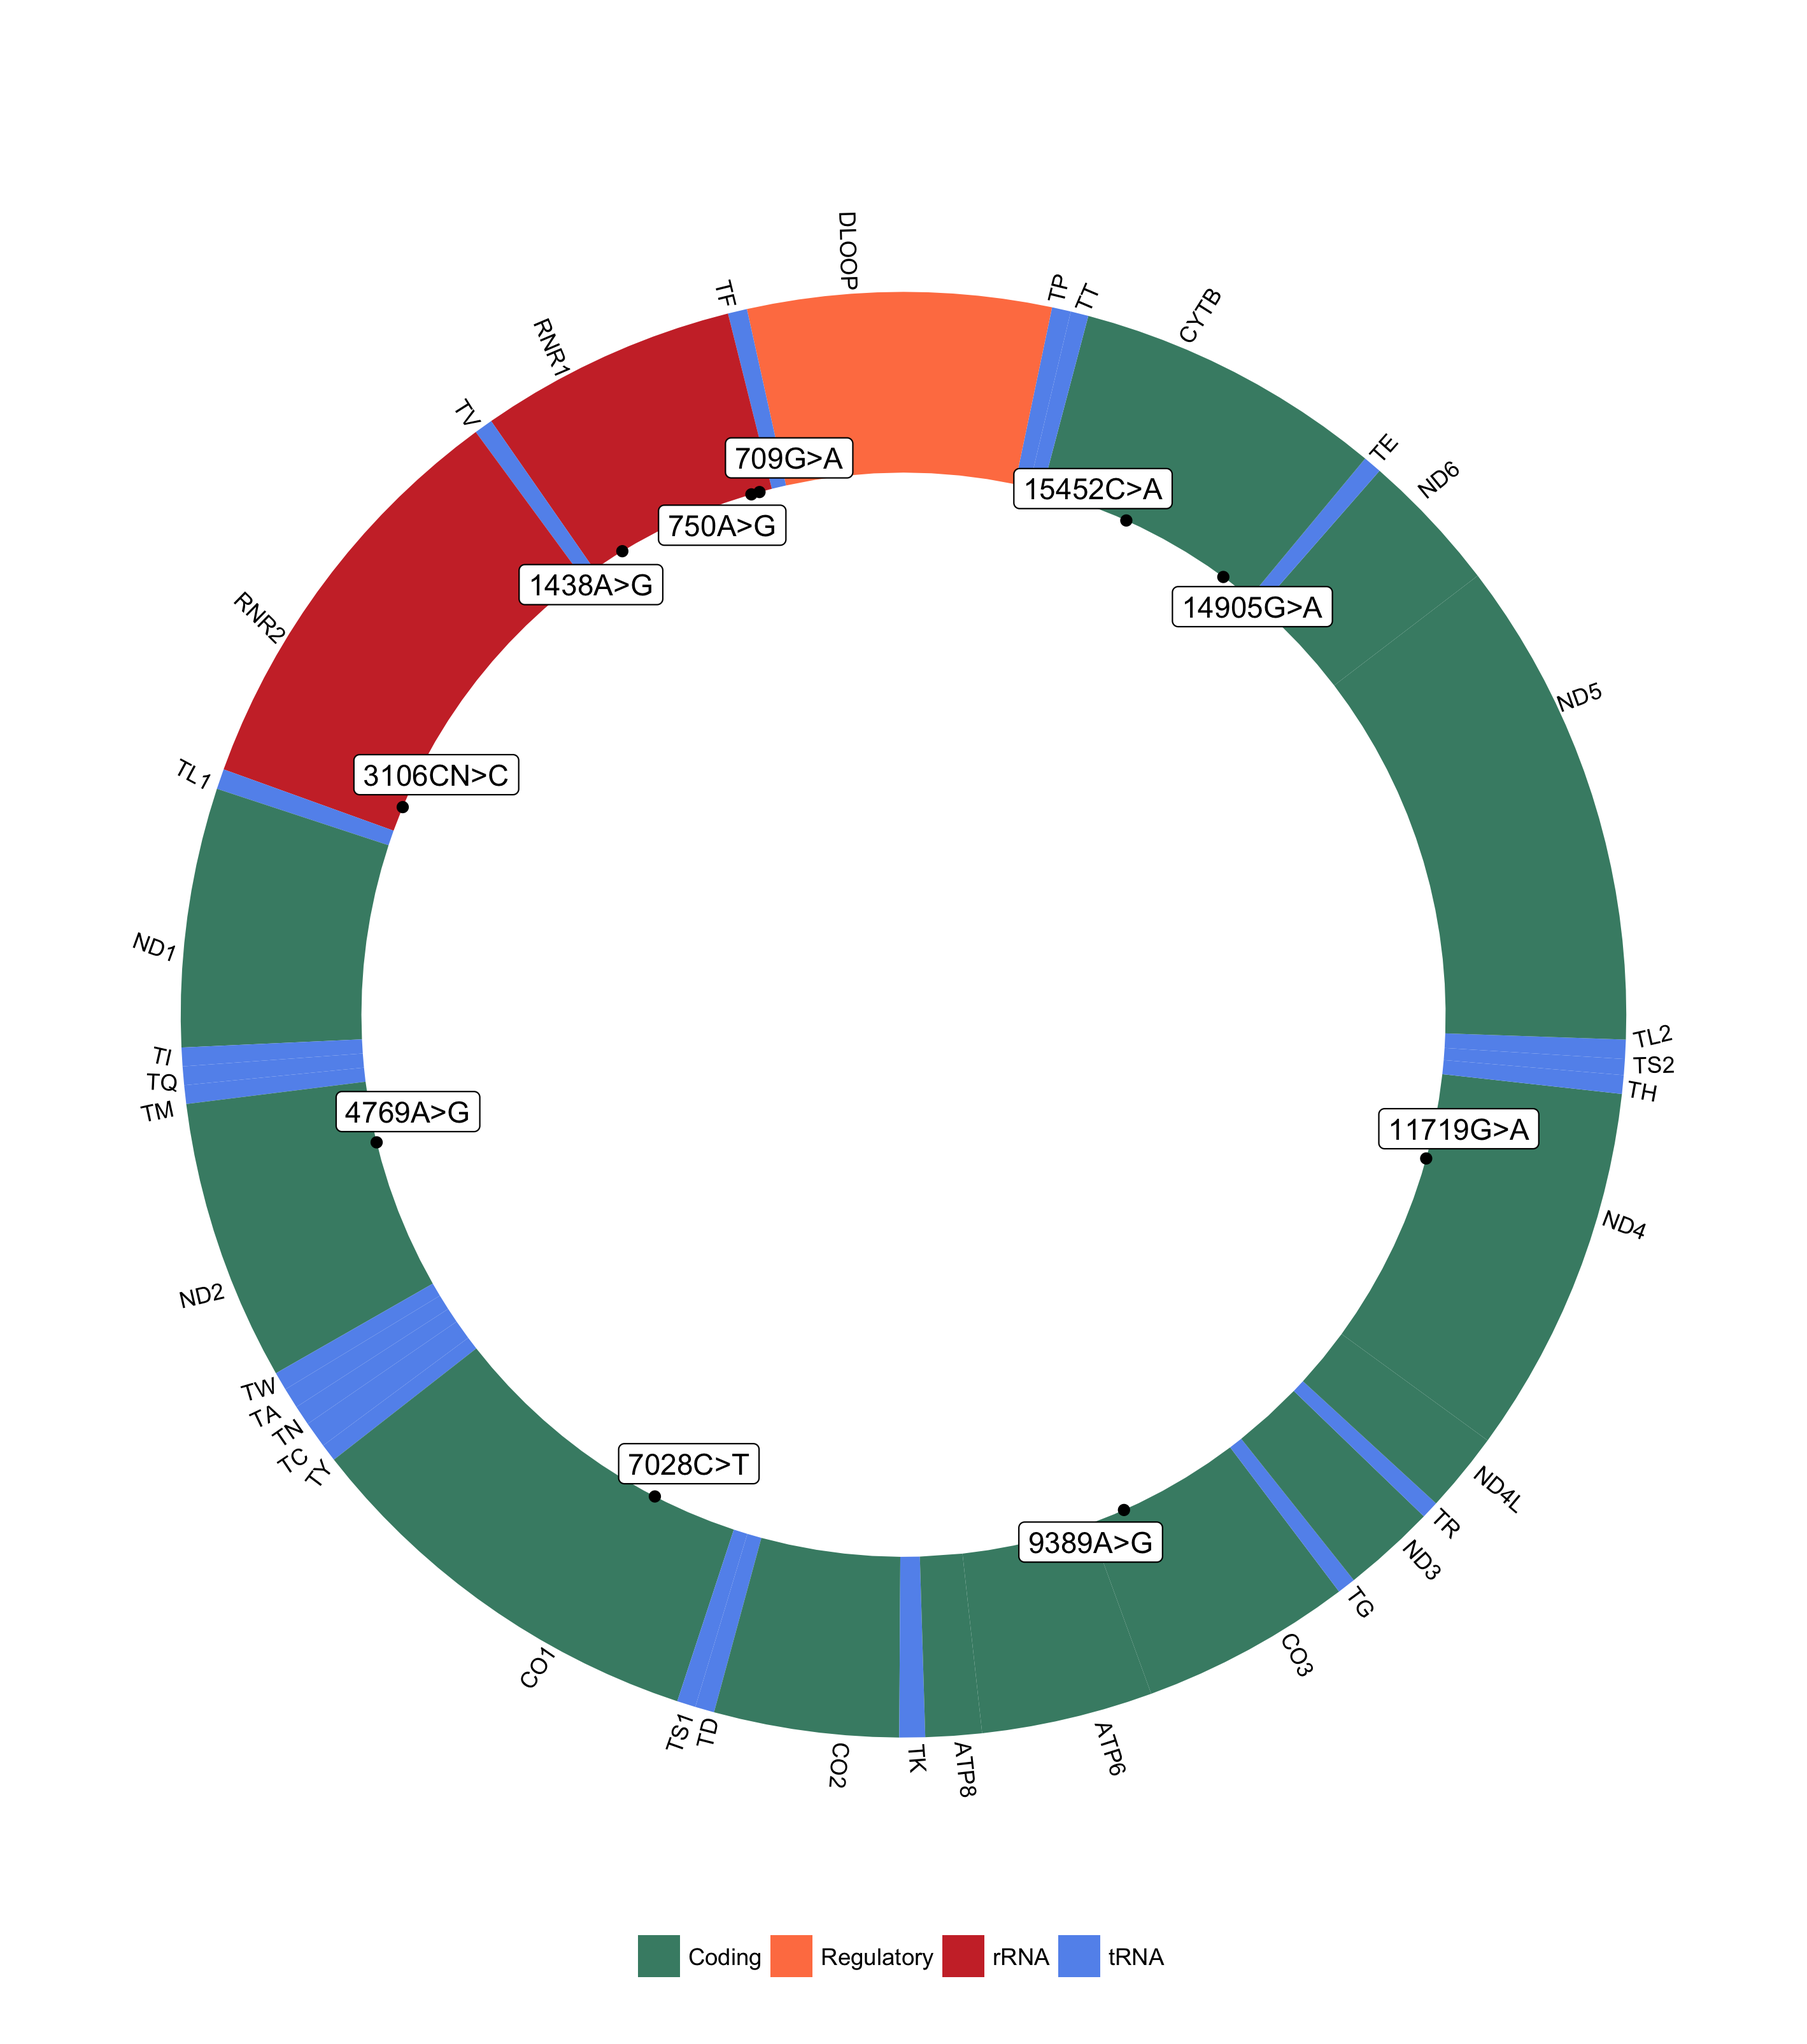
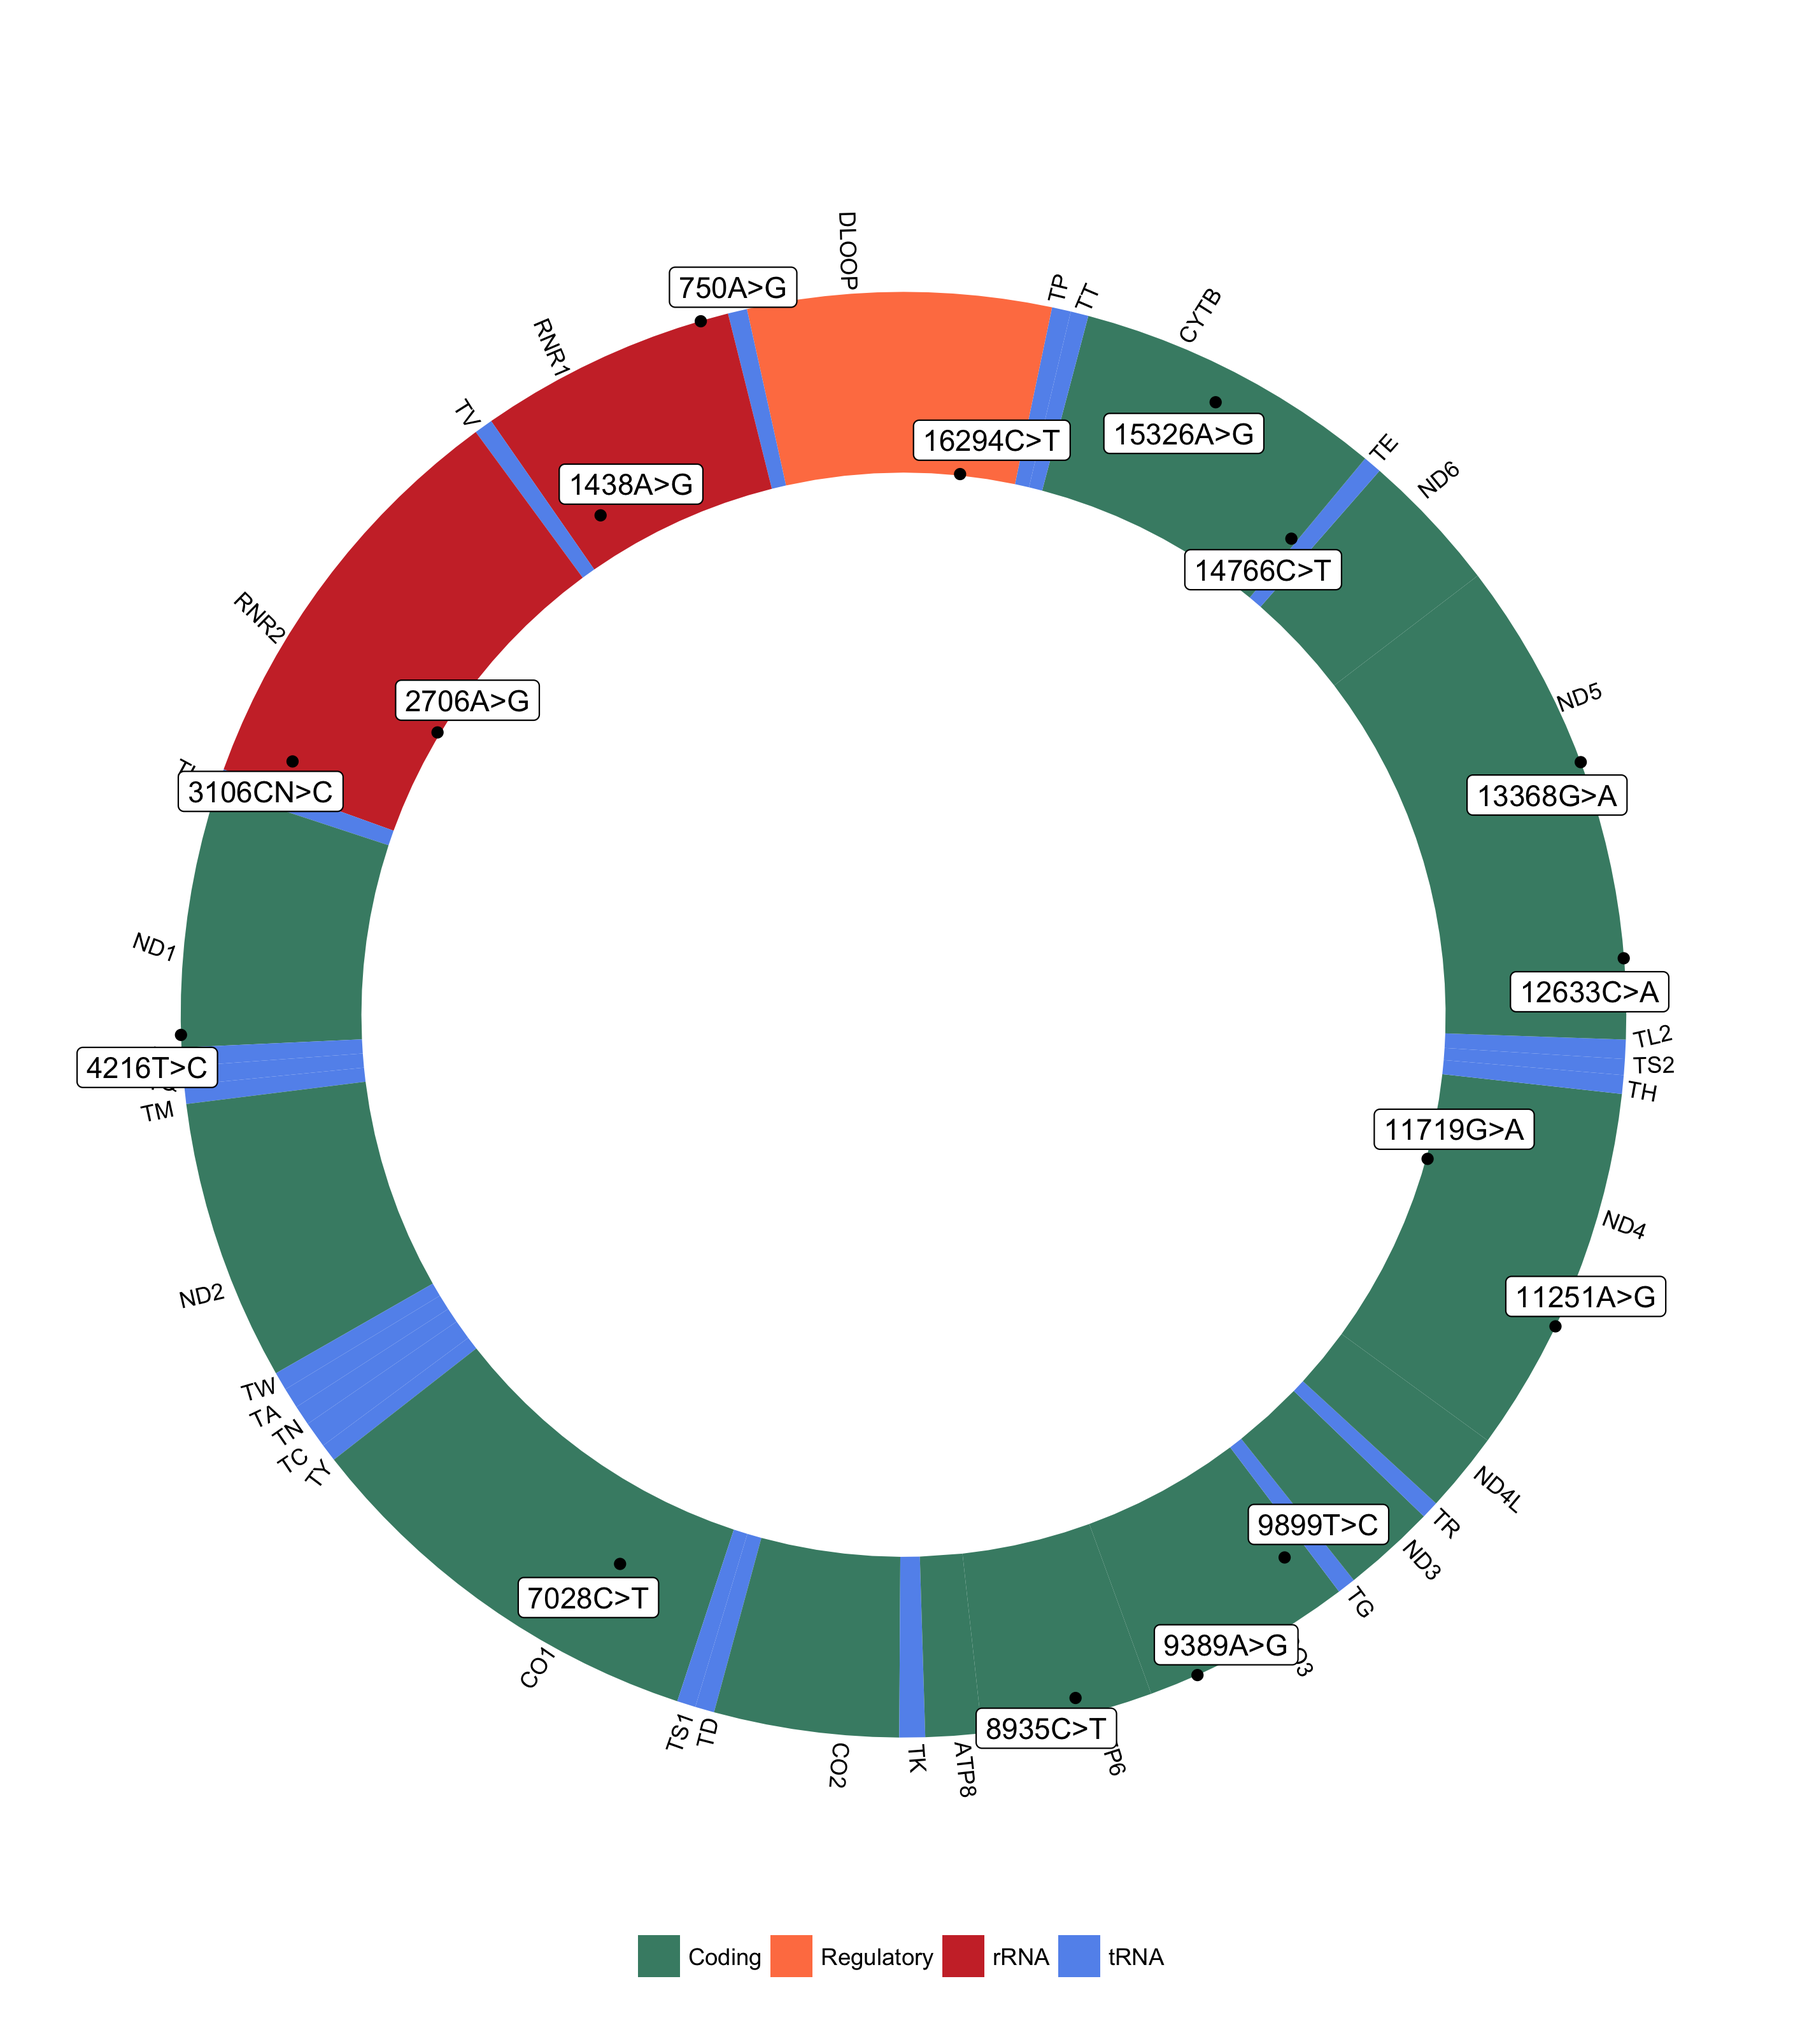
Update documentation

diff --git a/README.md b/README.md
@@ -35,6 +35,12 @@ mitovizR can be installed in R from GitHub using `devtools`:
 devtools::install_github("robertopreste/mitovizR")
 ```
 
+It is suggested to also build the package vignette when installing `mitovizR`, where all the functionalities are better explained:
+
+``` r
+devtools::install_github("robertopreste/mitovizR", build_vignettes = TRUE)
+```
+
 Official installation from CRAN/Bioconductor coming soon!
 
 Usage
@@ -54,7 +60,7 @@ plot_vcf()   # to plot variants from a VCF file
 plot_json()  # to plot variants from a JSON file 
 ```
 
-Further details about their usage and options may be found below.
+Further details about their usage and options may be found in the package vignette, which can be built using `devtools::install_github("robertopreste/mitovizR", build_vignettes = TRUE)`.
 
 **Under construction!**
 
@@ -62,29 +68,29 @@ Further details about their usage and options may be found below.
 
 The simplest example is when you already have a dataframe with a set of mitochondrial variants.
 
+|    POS| REF | ALT | SAMPLE  | GT  | HF    |
+|------:|:----|:----|:--------|:----|:------|
+|    750| A   | G   | HG00420 | 0/1 | 0.998 |
+|   1438| A   | G   | HG00420 | 0/1 | 0.232 |
+|   2706| A   | G   | HG00420 | 0/1 | 0.015 |
+|   3106| CN  | C   | HG00420 | 0/1 | 0.66  |
+|   4216| T   | C   | HG00420 | 1   | 1.0   |
+|   7028| C   | T   | HG00420 | 0/1 | 0.420 |
+|   8935| C   | T   | HG00420 | 0/1 | 0.899 |
+|   9389| A   | G   | HG00420 | 1   | 1.0   |
+|   9899| T   | C   | HG00420 | 0/1 | 0.670 |
+|  11251| A   | G   | HG00420 | 0/1 | 0.999 |
+|  11719| G   | A   | HG00420 | 0/1 | 0.008 |
+|  12633| C   | A   | HG00420 | 0/1 | 0.998 |
+|  13368| G   | A   | HG00420 | 1   | 1.0   |
+|  14766| C   | T   | HG00420 | 0/1 | 0.398 |
+|  15326| A   | G   | HG00420 | 0/1 | 0.804 |
+|  16294| C   | T   | HG00420 | 0/1 | 0.008 |
+
+In this case, a call to `plot_df()` will plot all mitochondrial variants.
+
 ``` r
-minidf 
-```
-
-| CHROM |    POS| ID  | REF | ALT | QUAL | FILTER |
-|:------|------:|:----|:----|:----|:-----|:-------|
-| chrMT |    709| NA  | G   | A   | NA   | PASS   |
-| chrMT |    750| NA  | A   | G   | NA   | PASS   |
-| chrMT |   1438| NA  | A   | G   | NA   | PASS   |
-| chrMT |   3106| NA  | CN  | C   | NA   | PASS   |
-| chrMT |   4769| NA  | A   | G   | NA   | PASS   |
-| chrMT |   7028| NA  | C   | T   | NA   | PASS   |
-| chrMT |   9389| NA  | A   | G   | NA   | PASS   |
-| chrMT |  11719| NA  | G   | A   | NA   | PASS   |
-| chrMT |  14905| NA  | G   | A   | NA   | PASS   |
-| chrMT |  15452| NA  | C   | A   | NA   | PASS   |
-
-In this case, a call to `plot_df()` will plot all mitochondrial variants; by default, this function will look for a `POS` column containing variants position, but custom column names can be specified using the `pos_col` option.
-
-``` r
-plot_df(minidf)
-# specify the variant positions column name
-plot_df(minidf, pos_col = "position")
+plot_df(sample_df)
 ```
 
 ![](man/figures/mitoviz_plot_df.png)
@@ -92,59 +98,51 @@ plot_df(minidf, pos_col = "position")
 It is possible to show a label on each variant with its position, reference and alternate allele, using the `show_var_labels` option. In this case, by default the `plot_df()` function will look for columns named `POS`, `REF` and `ALT`, containing respectively variant positions, reference alleles and alternate alleles; you can specify different column names using respectively the `pos_col`, `ref_col` and `alt_col` options.
 
 ``` r
-plot_df(minidf, show_var_labels = TRUE)
+plot_df(sample_df, show_var_labels = TRUE)
 # specify the variant positions, reference and alternate alleles column names
-plot_df(minidf, show_var_labels = TRUE, 
+plot_df(sample_df, show_var_labels = TRUE, 
         pos_col = "POS", ref_col = "REF", alt_col = "ALT")
 ```
 
 ![](man/figures/mitoviz_plot_df_labels.png)
 
+Variants are shown according to their heteroplasmic fraction (HF), plotting variants with HF = 1.0 on the outer border of the mitochondrial circle, those with HF = 0.0 on the inner border and all the others according to their actual HF value. This is done automatically if a column with heteroplasmic fraction values is present (by default `HF`, if not set differently using the `hf_col` option); otherwise, variants will simply be shown in the middle of the circular plot (as if they all had HF = 0.5).
+
+`plot_df()` deal with a dataframe with multiple samples easily, creating a separate plot for each sample listed in the `SAMPLE` column (this default can be changed using the `sample_col` option).
+
+``` r
+plot_df(sample_multi_df)
+# specify the sample column name 
+plot_df(sample_multi_df, sample_col = "sample_column")
+```
+
+![](man/figures/mitoviz_plot_multi_df.png)
+
+By default, the plot will be returned and shown; if you want to save the plot to a file, just use the `save_plot` option, which will save the current plot to `./mitoviz_plot.png`. You can specify a custom output path and filename using the `save_to` option.
+
+``` r
+plot_df(sample_df, save_plot = TRUE)
+# specify a custom output path
+plot_df(sample_df, save_plot = TRUE, save_to = "../my_dir/my_plot.png")
+```
+
 ### Plot variants from a VCF file
 
-The `plot_vcf()` function allows to plot human mitochondrial variants contained in a VCF file. In this example, a VCF file named "HG00119.vcf" and present in the current working directory is used:
+The `plot_vcf()` function allows to plot human mitochondrial variants contained in a VCF file.
 
 ``` r
-plot_vcf("HG00119.vcf")
+plot_vcf("sample_vcf.vcf")
 ```
 
-It is also possible to specify whether the plot will show loci names and/or loci legend:
+![](man/figures/mitoviz_plot_vcf.png)
+
+Multiple plots are automatically created from a multi-sample VCF file.
 
 ``` r
-# do not show loci names
-plot_vcf("HG00119.vcf", show_loci_names = FALSE)
+plot_vcf("sample_multi.vcf")
 ```
 
-![](man/figures/mitoviz_plot_no_loci_names.png)
-
-``` r
-# do not show loci legend 
-plot_vcf("HG00119.vcf", show_loci_legend = FALSE)
-```
-
-![](man/figures/mitoviz_plot_no_loci_legend.png)
-
-A specific title can be added to the plot using the `title` option:
-
-``` r
-plot_vcf("HG00119.vcf", title = "My mito plot")
-```
-
-![](man/figures/mitoviz_plot_title.png)
-
-By default, the plot will be returned and shown; if you want to save the plot to a file, just use the `save_plot` option:
-
-``` r
-plot_vcf("HG00119.vcf", save_plot = TRUE)
-```
-
-This will create a file named `mitoviz_plot.png` in the current working directory.
-
-It is also possible to save the plot to a specific path and/or with a custom filename, using the `save_to` option:
-
-``` r
-plot_vcf("HG00119.vcf", save_plot = TRUE, save_to = "my_folder/my_plot_name.png")
-```
+![](man/figures/mitoviz_plot_multi_vcf.png)
 
 ### Plot variants from a JSON file
 
